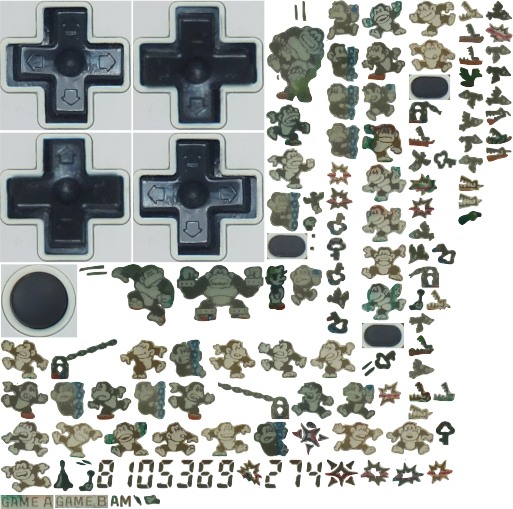
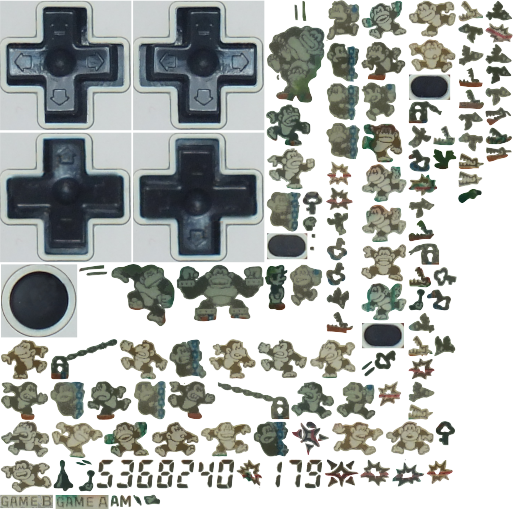
Donkey Kong II various fixes
Donkey Kong II various fixes, improved graphics, description,
preliminary demo mode, move up/down into enemy collision fix, goto next
level bug

diff --git a/games/donkeykong2/js/donkeykong2.js b/games/donkeykong2/js/donkeykong2.js
@@ -73,6 +73,11 @@ donkeykong2.ClockMode = function(lcdgame) {
 	this.lcdgame = lcdgame;
 	this.demotimer = null;
 	this.democount;
+	
+	this.demospawn;
+	this.demodkjr;
+	this.demokey;
+	this.demochains;
 }
 donkeykong2.ClockMode.prototype = {
 	init: function(){
@@ -81,12 +86,15 @@ donkeykong2.ClockMode.prototype = {
 		this.democount = 0;
 
 		this.demotimer = this.lcdgame.addtimer(this, this.onTimerDemo, 500, false);
-
+		
 		// start demo mode
+		this.demospawn = {"croc1": -1, "spark1": -1, "spark2": -1, "croc2": -1, "bird": -1};
+		this.resetDemo();
 		this.demotimer.start();
 	},
 
 	update: function() {
+
 	},
 	
 	press: function(btn) {
@@ -114,10 +122,141 @@ donkeykong2.ClockMode.prototype = {
 	onTimerDemo: function() {
 		// update clock
 		this.updatecock();
+		
+		// update demo animation
+		this.updateDemo();
 
-		// update fake gameplay
-		this.lcdgame.setShapeByName("gamea", (this.demotimer.counter % 2 == 0));
-		this.lcdgame.setShapeByName("gameb", (this.demotimer.counter % 2 != 0));
+		// hack
+		if (this.lcdgame.shapeVisible("mario") == false) {
+			this.resetDemo();
+		};
+	},
+
+	resetDemo: function() {
+		// reset donkey kong and mario
+		this.lcdgame.setShapeByName("mario", true);
+		this.lcdgame.setShapeByName("dk_1", true);
+
+		this.lcdgame.setShapeByName("chain_1", true);
+		this.lcdgame.setShapeByName("chain_2", true);
+		this.lcdgame.setShapeByName("chain_3", true);
+		this.lcdgame.setShapeByName("chain_4", true);
+
+		// reset variables
+		//this.demodkjr = 0;
+		//this.demokey = 0;
+		//this.demochains = [4, 5, 6, 7];
+	},
+		
+	moveDkjrDemo: function() {
+/*
+		var jump = false;
+
+		// jump to first key 
+		if ( ( (this.demokey == 0) && (this.demodkjr == 2) )	// jump to first key
+			|| ( (this.demokey == 2) && (this.demodkjr == 21) )	// jump to second key
+			) {
+			jump = true;
+		};
+		
+		// jump to first key 
+		if (jump) {
+			
+		} else if (this.jumping) {
+		} else {
+			// moving left or right
+			if () {
+				
+			}
+		}
+		if ( (this.demokey == 0) && (this.demodkjr == 2) )		// jump to first key
+		|| ( (this.demokey == 2) && (this.demodkjr == 21) ) {	// jump to second key
+			jump = true;
+		};
+		
+	
+		this.demodkjr = 0;
+		this.demokey = 0;
+		this.demochains = [4, 5, 6, 7];
+*/		
+	},
+
+	updateDemo: function() {
+		// update moving enemies
+		var t = this.demotimer.counter;
+
+		// move the enemies
+		if (t % 2 == 0) {
+			// from top row birds to middle row birds
+			if (this.lcdgame.sequenceShapeVisible("bird1", -1) == true) {
+				this.lcdgame.sequenceSetFirst("bird2", true);
+			};
+			this.lcdgame.sequenceShift("bird1");
+			this.lcdgame.sequenceShift("bird3");
+			this.lcdgame.sequenceShift("croc1");
+			
+			// top row sparks move slower
+			if (t % 4 == 0) this.lcdgame.sequenceShift("spark2");
+		} else {
+			// from middle row birds to bottom row birds
+			if (this.lcdgame.sequenceShapeVisible("bird2", -1) == true) {
+				this.lcdgame.sequenceSetFirst("bird3", true);
+			};
+	
+			this.lcdgame.sequenceShift("croc2");
+			this.lcdgame.sequenceShift("bird2");
+			this.lcdgame.sequenceShift("spark1");
+		};
+		
+		// NOTE: this is best guess of randomisation of enemies, on the real device there may be a pattern but couldn't find it
+		if (t % 2 == 0) {
+			// count down and spawn enemy
+			this.demospawn.croc1--;
+			this.demospawn.bird--;
+			if (this.demospawn.croc1  == 0) this.lcdgame.sequenceSetFirst("croc1", true);
+			if (this.demospawn.bird   == 0) this.lcdgame.sequenceSetFirst("bird1", true);
+			
+			// reset spawn count down
+			if (this.demospawn.croc1  <= 0) this.demospawn.croc1  = this.lcdgame.randomInteger(2, 8);
+			if (this.demospawn.bird   <= 0) this.demospawn.bird   = this.lcdgame.randomInteger(4, 12);
+			// add new enemies
+			if (t % 4 == 0) {
+				// after blink animation, add spark2 on second position
+				if (this.spark2) {
+					this.spark2 = false;
+					this.lcdgame.sequenceSetPos("spark2", 0, true);
+					this.lcdgame.setShapeByName("spark2_1", false);
+				};
+				// count down and spawn enemy
+				this.demospawn.spark2--;
+				this.spark2 = (this.demospawn.spark2 == 0); // spark blink animation
+
+				// reset spawn count down
+				if (this.demospawn.spark2 <= 0) this.demospawn.spark2 = this.lcdgame.randomInteger(4, 12);
+			};
+		} else {
+			// after blink animation, add spark1 on second position
+			if (this.spark1) {
+				this.spark1 = false;
+				this.lcdgame.sequenceSetPos("spark1", 0, true);
+				this.lcdgame.setShapeByName("spark1_1", false);
+			};
+			// count down and spawn enemy
+			this.demospawn.croc2--;
+			this.demospawn.spark1--;
+			if (this.demospawn.croc2  == 0) this.lcdgame.sequenceSetFirst("croc2", true);
+			this.spark1 = (this.demospawn.spark1 == 0);  // spark blink animation
+
+			// reset spawn count down
+			//if (this.demospawn.croc2  <= 0) this.demospawn.croc2  = this.lcdgame.randomInteger(2, 8);
+			//if (this.demospawn.spark1 <= 0) this.demospawn.spark1 = this.lcdgame.randomInteger(4, 12);
+			
+			// reset spawn count down
+			if (this.demospawn.croc2  <= 0) this.demospawn.croc2  = this.lcdgame.randomInteger(2, 4);
+			if (this.demospawn.spark1 <= 0) this.demospawn.spark1 = this.lcdgame.randomInteger(4, 6);
+		};
+		
+		this.moveDkjrDemo();
 	},
 	
 	updatecock: function() {
@@ -378,7 +517,7 @@ donkeykong2.MainGame.prototype = {
 		};
 
 		// check collisions by moving into enemy
-		if (coll != "") {
+		if ( (move != 0) && (coll != "") ) {
 			var hit = this.lcdgame.shapeVisible(coll);
 			// collision
 			if (hit) {
@@ -396,54 +535,49 @@ donkeykong2.MainGame.prototype = {
 			// jumping
 			if (dir == DIR_JUMP) {
 				this.lcdgame.playSoundEffect("jump");
-				
-				// check jumping collision
-				coll = MoveCollide[this.dkjrpos].collide[0];
-				if (coll != "") {
-					var hit = this.lcdgame.shapeVisible(coll);
-					// collision
-					if (hit) {
-						this.doWait(WAIT_LOSEANIM);
-						return;
-					};
-				};
-			
-				// if jumping position doesn't have a "can move down with dpad" value, then fall down from that position, else jump into rope/vine but don't fall
-				if (MoveCollide[this.dkjrpos].move[1] == 0) {
-					this.jumping = 2;
-
-					// check if jump over enemy
-					var en = MoveCollide[this.dkjrpos].collide[4];
-					this.jumpover = (this.lcdgame.shapeVisible(en) ? en : "");
-
-					// jump at first position to advance key on bottom screen
-					if ( (this.dkjrpos == 2) && (this.keypos == 0) ) {
-						this.jumping = 1; // shorter jump
-						this.doWait(WAIT_MOVEKEY1);
-					};
-
-					// jump at 21th position to advance key on top screen
-					if ( (this.dkjrpos == 21) && (this.keypos == 2) ) {
-						this.jumping = 1; // shorter jump
-						this.doWait(WAIT_MOVEKEY2);
-					};
-					this.lcdgame.setShapeByName("dkjr_hand_1", (this.dkjrpos == 21));
-				};
 			} else {
 				this.lcdgame.playSoundEffect("move");
 			};
+
 			// Exception when DkJr on rope:
 			// When bird moves to position directly next to DkJr -> not collide yet, only collide when bird passes through DkJr
 			// When DkJr moves to position directly next to bird -> then collide immediately (exception in code below)
+			var collLeft  = "";
+			var collRight = "";
 			if ( (this.dkjrpos > 22) && (MoveCollide[this.dkjrpos].move[1] < 0) ) {
 				// can move down, so DkJr is on rope
 				var collLeft  = MoveCollide[this.dkjrpos].collide[2];
 				var collRight = MoveCollide[this.dkjrpos].collide[3];
-				// bird collision
-				if ( (this.lcdgame.shapeVisible(collLeft)) || (this.lcdgame.shapeVisible(collRight)) ) {
-					this.doWait(WAIT_LOSEANIM);
-					return;
-				}
+			};
+
+			// check collision up, for when jumping or moving vertically
+			var collUp = MoveCollide[this.dkjrpos].collide[0];
+			// check any collision
+			if ( (this.lcdgame.shapeVisible(collUp)) || (this.lcdgame.shapeVisible(collLeft))  || (this.lcdgame.shapeVisible(collRight)) ) {
+				this.doWait(WAIT_LOSEANIM);
+				return;
+			};
+			
+			// if jumping position doesn't have a "can move down with dpad" value, then fall down from that position, else jump into rope/vine but don't fall (same as moving)
+			if ( (dir == DIR_JUMP) && (MoveCollide[this.dkjrpos].move[1] == 0) ) {
+				this.jumping = 2;
+
+				// check if jump over enemy
+				var en = MoveCollide[this.dkjrpos].collide[4];
+				this.jumpover = (this.lcdgame.shapeVisible(en) ? en : "");
+
+				// jump at first position to advance key on bottom screen
+				if ( (this.dkjrpos == 2) && (this.keypos == 0) ) {
+					this.jumping = 1; // shorter jump
+					this.doWait(WAIT_MOVEKEY1);
+				};
+
+				// jump at 21th position to advance key on top screen
+				if ( (this.dkjrpos == 21) && (this.keypos == 2) ) {
+					this.jumping = 1; // shorter jump
+					this.doWait(WAIT_MOVEKEY2);
+				};
+				this.lcdgame.setShapeByName("dkjr_hand_1", (this.dkjrpos == 21));
 			};
 		} else {
 			// exception; move up on top position of rope to grab key
@@ -827,8 +961,7 @@ donkeykong2.MainGame.prototype = {
 				
 				// 5000ms Mario+DK re-appear
 				if (t == 50) {
-					//.............
-					this.doWait(WAIT_STARTANIM);
+					this.nextLevel();
 				};
 	
 				break;
@@ -999,7 +1132,7 @@ donkeykong2.MainGame.prototype = {
 				this.spark2 = (this.enemyspawn.spark2 == 0); // spark blink animation
 
 				// reset spawn count down
-				if (this.enemyspawn.spark2 <= 0) this.enemyspawn.spark2 = this.lcdgame.randomInteger(4, 12);
+				if (this.enemyspawn.spark2 <= 0) this.enemyspawn.spark2 = this.lcdgame.randomInteger(4, 6);
 			};
 		} else {
 			// after blink animation, add spark1 on second position
